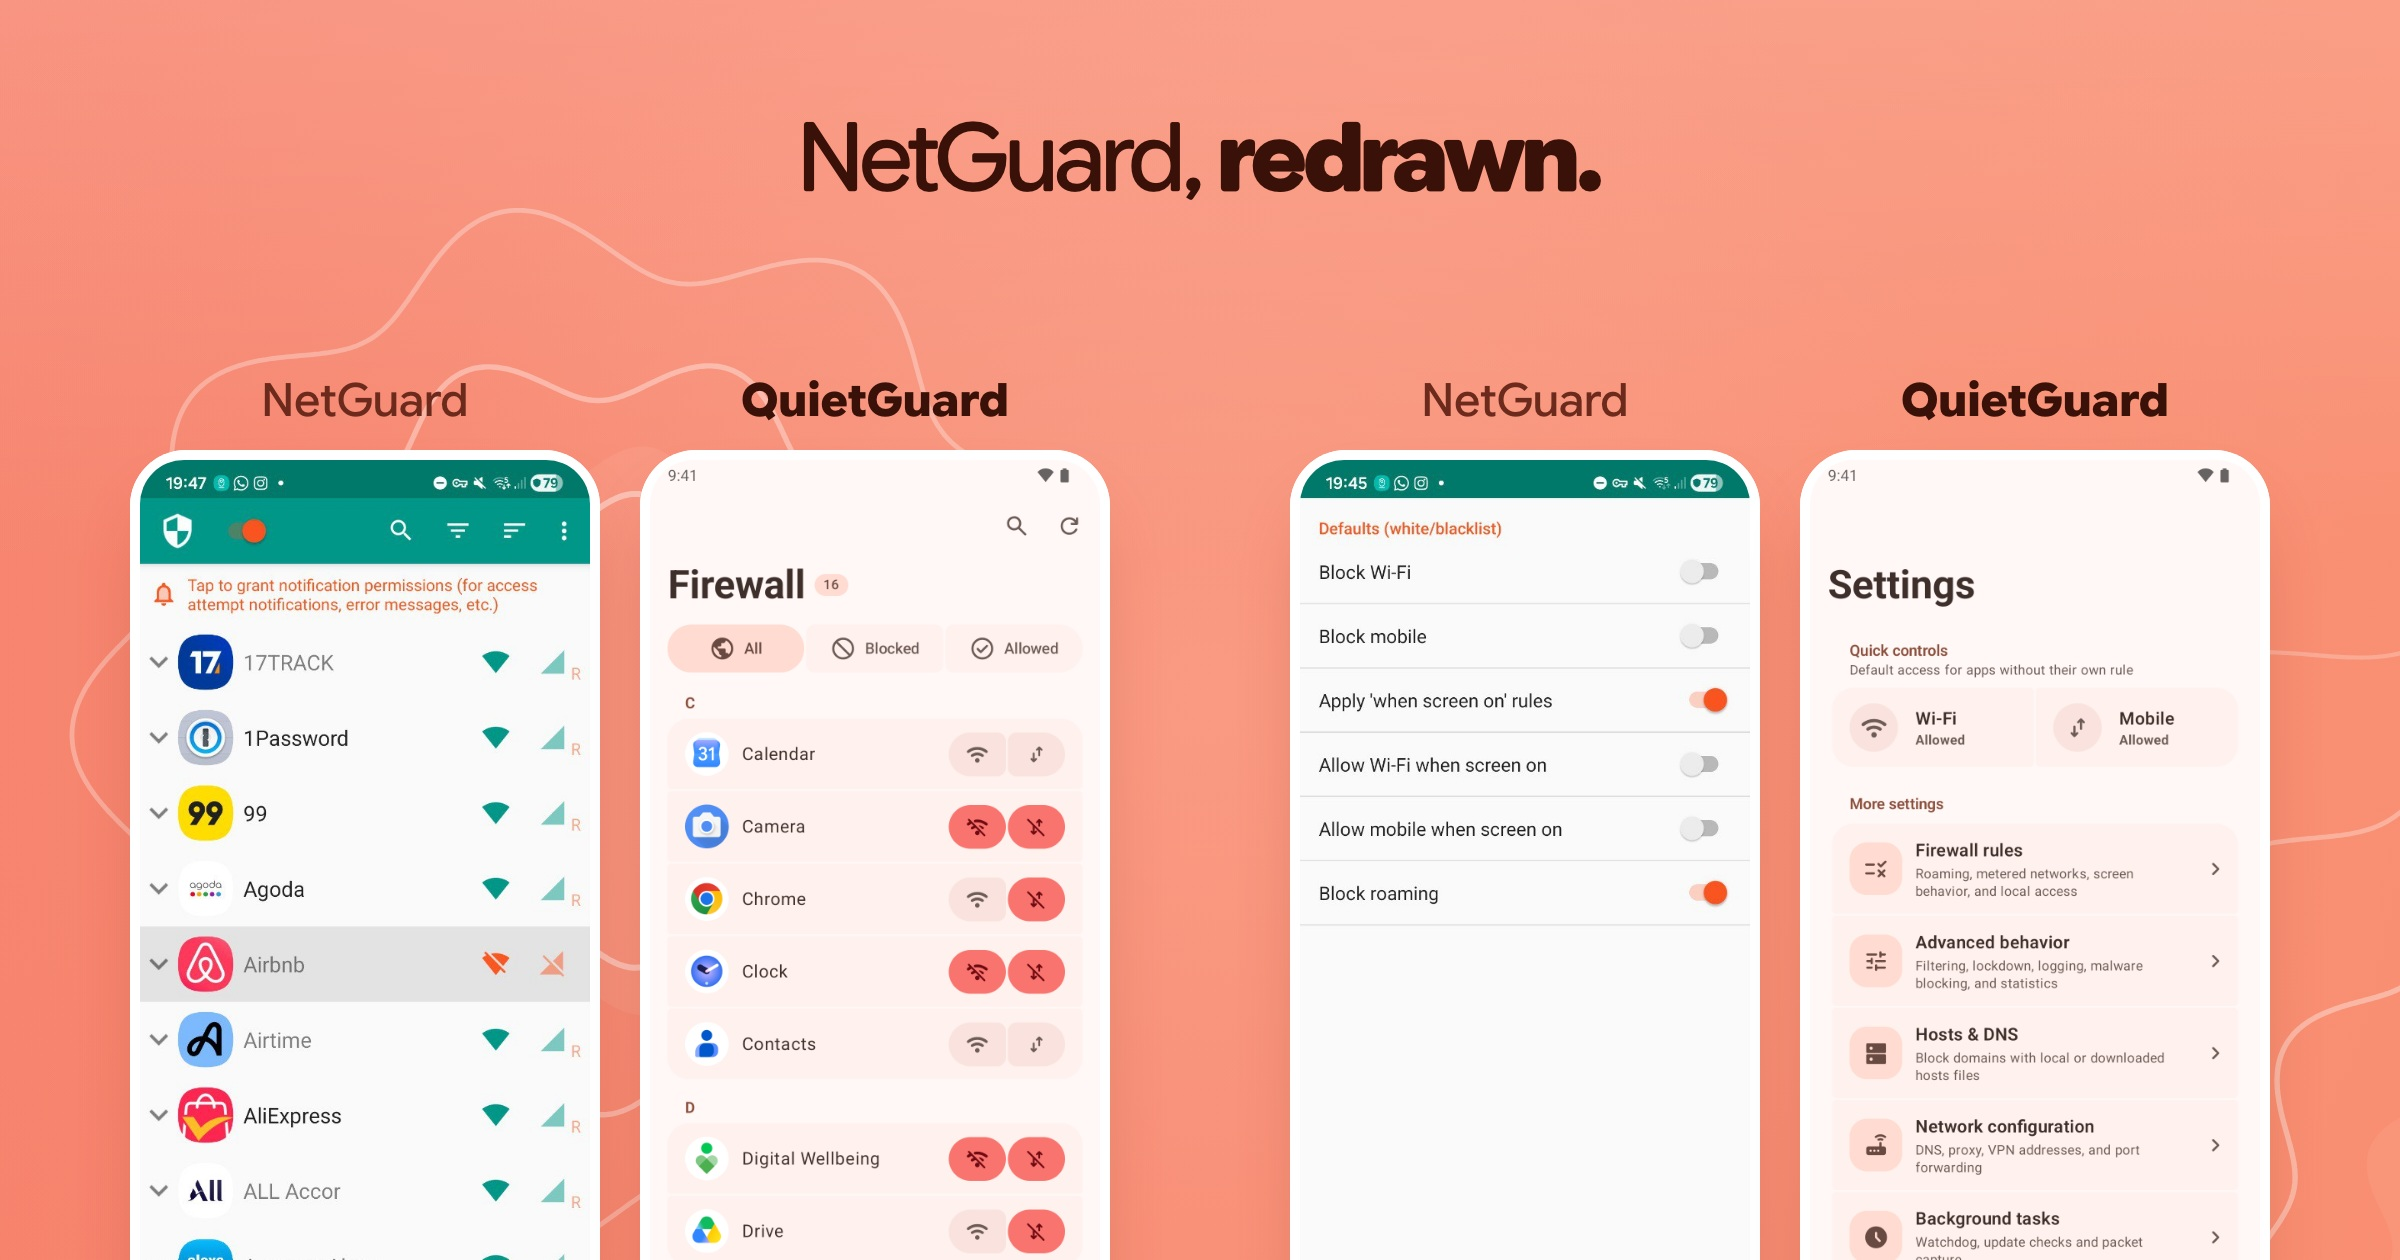
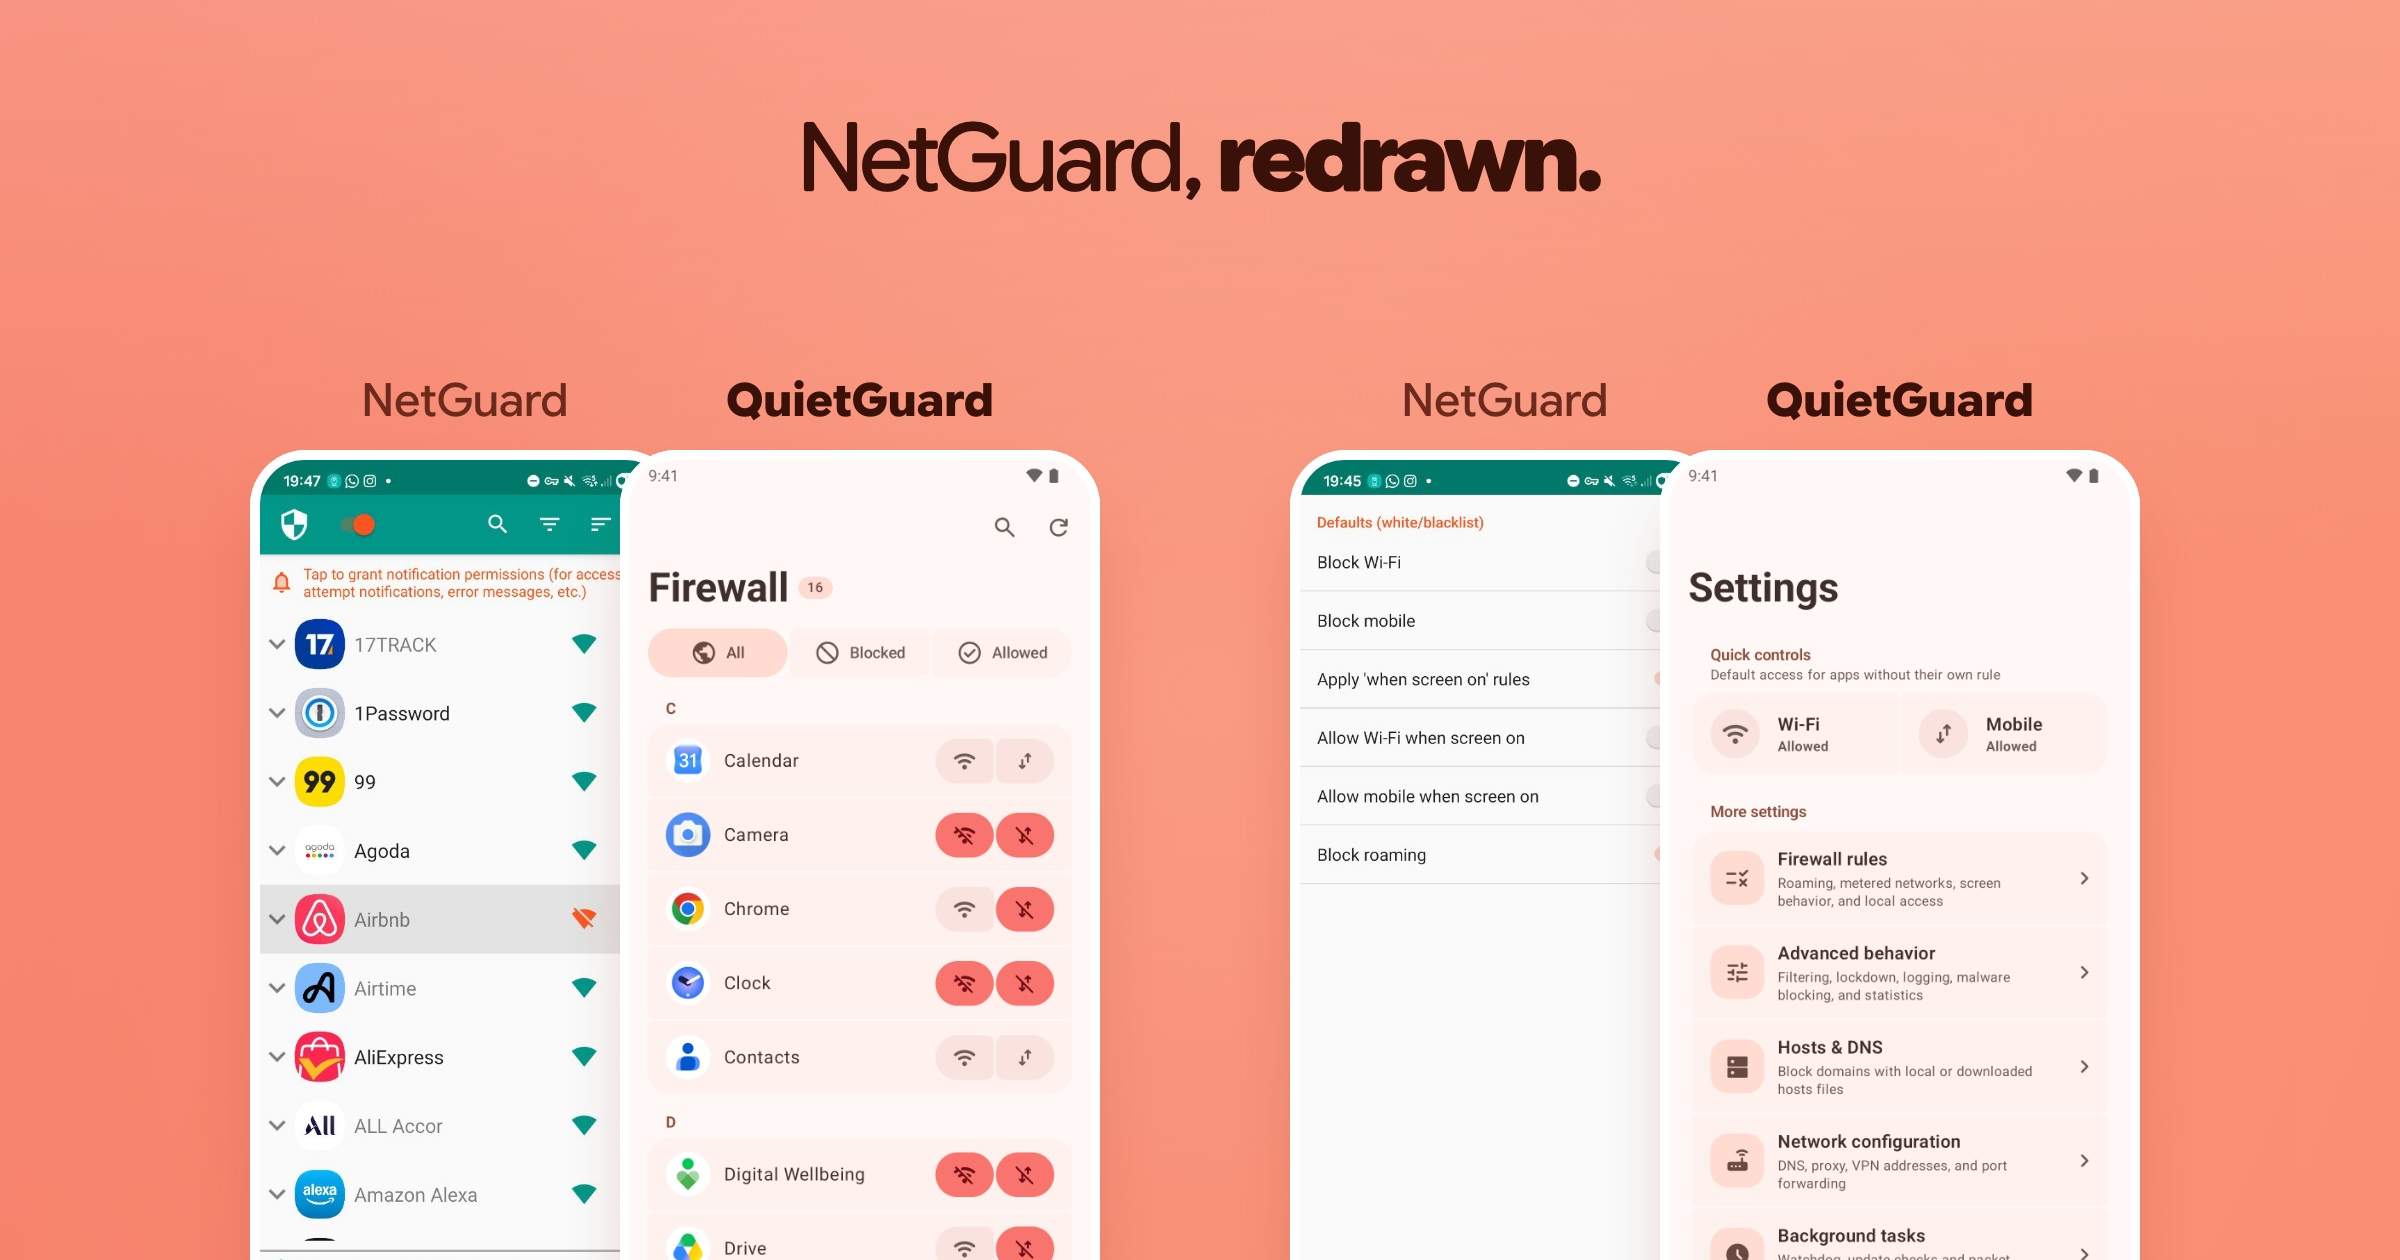
Comparison without ripples; QuietGuard steps in front of NetGuard in each centred pair

diff --git a/store-listing/theme.css b/store-listing/theme.css
@@ -124,13 +124,16 @@ header p{margin:28px auto 0;font-size:40px;line-height:1.28;font-weight:420;colo
    each named above in the same ink. No panels. */
 .readme .mood-coral.compare header{left:0;right:0;top:110px;text-align:center}
 .readme .mood-coral.compare h1{font-size:96px}
-.readme .mood-coral.compare .device{top:450px;width:470px}
+.readme .mood-coral.compare .device{top:440px;width:470px}
+/* Before and after: NetGuard a little smaller and behind, QuietGuard larger and stepping in front. */
+.readme .mood-coral.compare .device.before{width:430px;top:450px;z-index:1}
+.readme .mood-coral.compare .device.after{width:480px;top:450px;z-index:2}
 .readme .mood-coral.compare .device.before,.readme .mood-coral.compare .device.after{--bezel:10px;--radius:56px;background:#ffffff;box-shadow:inset 0 0 0 2px #ffffff,0 40px 80px -36px #8a2a1a77}
 .readme .mood-coral.compare .device.before::before{display:none}
-.readme .mood-coral.compare .pair1.before{left:130px}
-.readme .mood-coral.compare .pair1.after{left:640px}
+.readme .mood-coral.compare .pair1.before{left:250px}
+.readme .mood-coral.compare .pair1.after{left:620px}
 .readme .mood-coral.compare .pair2.before{left:1290px}
-.readme .mood-coral.compare .pair2.after{left:1800px}
+.readme .mood-coral.compare .pair2.after{left:1660px}
 .readme .mood-coral.compare .device-label{transform:translateY(calc(-100% - 22px))}
 .readme .mood-coral.compare .device-label span{font-size:46px}
 

diff --git a/store-listing/theme.js b/store-listing/theme.js
@@ -39,7 +39,8 @@ function art(ctx) {
     body += `<rect width="${W}" height="${H}" fill="url(#glow${k})"/>`;
   });
   body += '<g mask="url(#quiet)">';
-  for (const r of ripples) {
+  // An image can opt out (the comparison keeps all attention on its phones).
+  for (const r of ctx.slide?.ripples === false ? [] : ripples) {
     const cx = panoramaX(ctx, r.x), cy = H * r.y;
     if (cx < -unit * 1.6 || cx > W + unit * 1.6) continue;
     for (let i = 0; i < r.rings; i++) {
